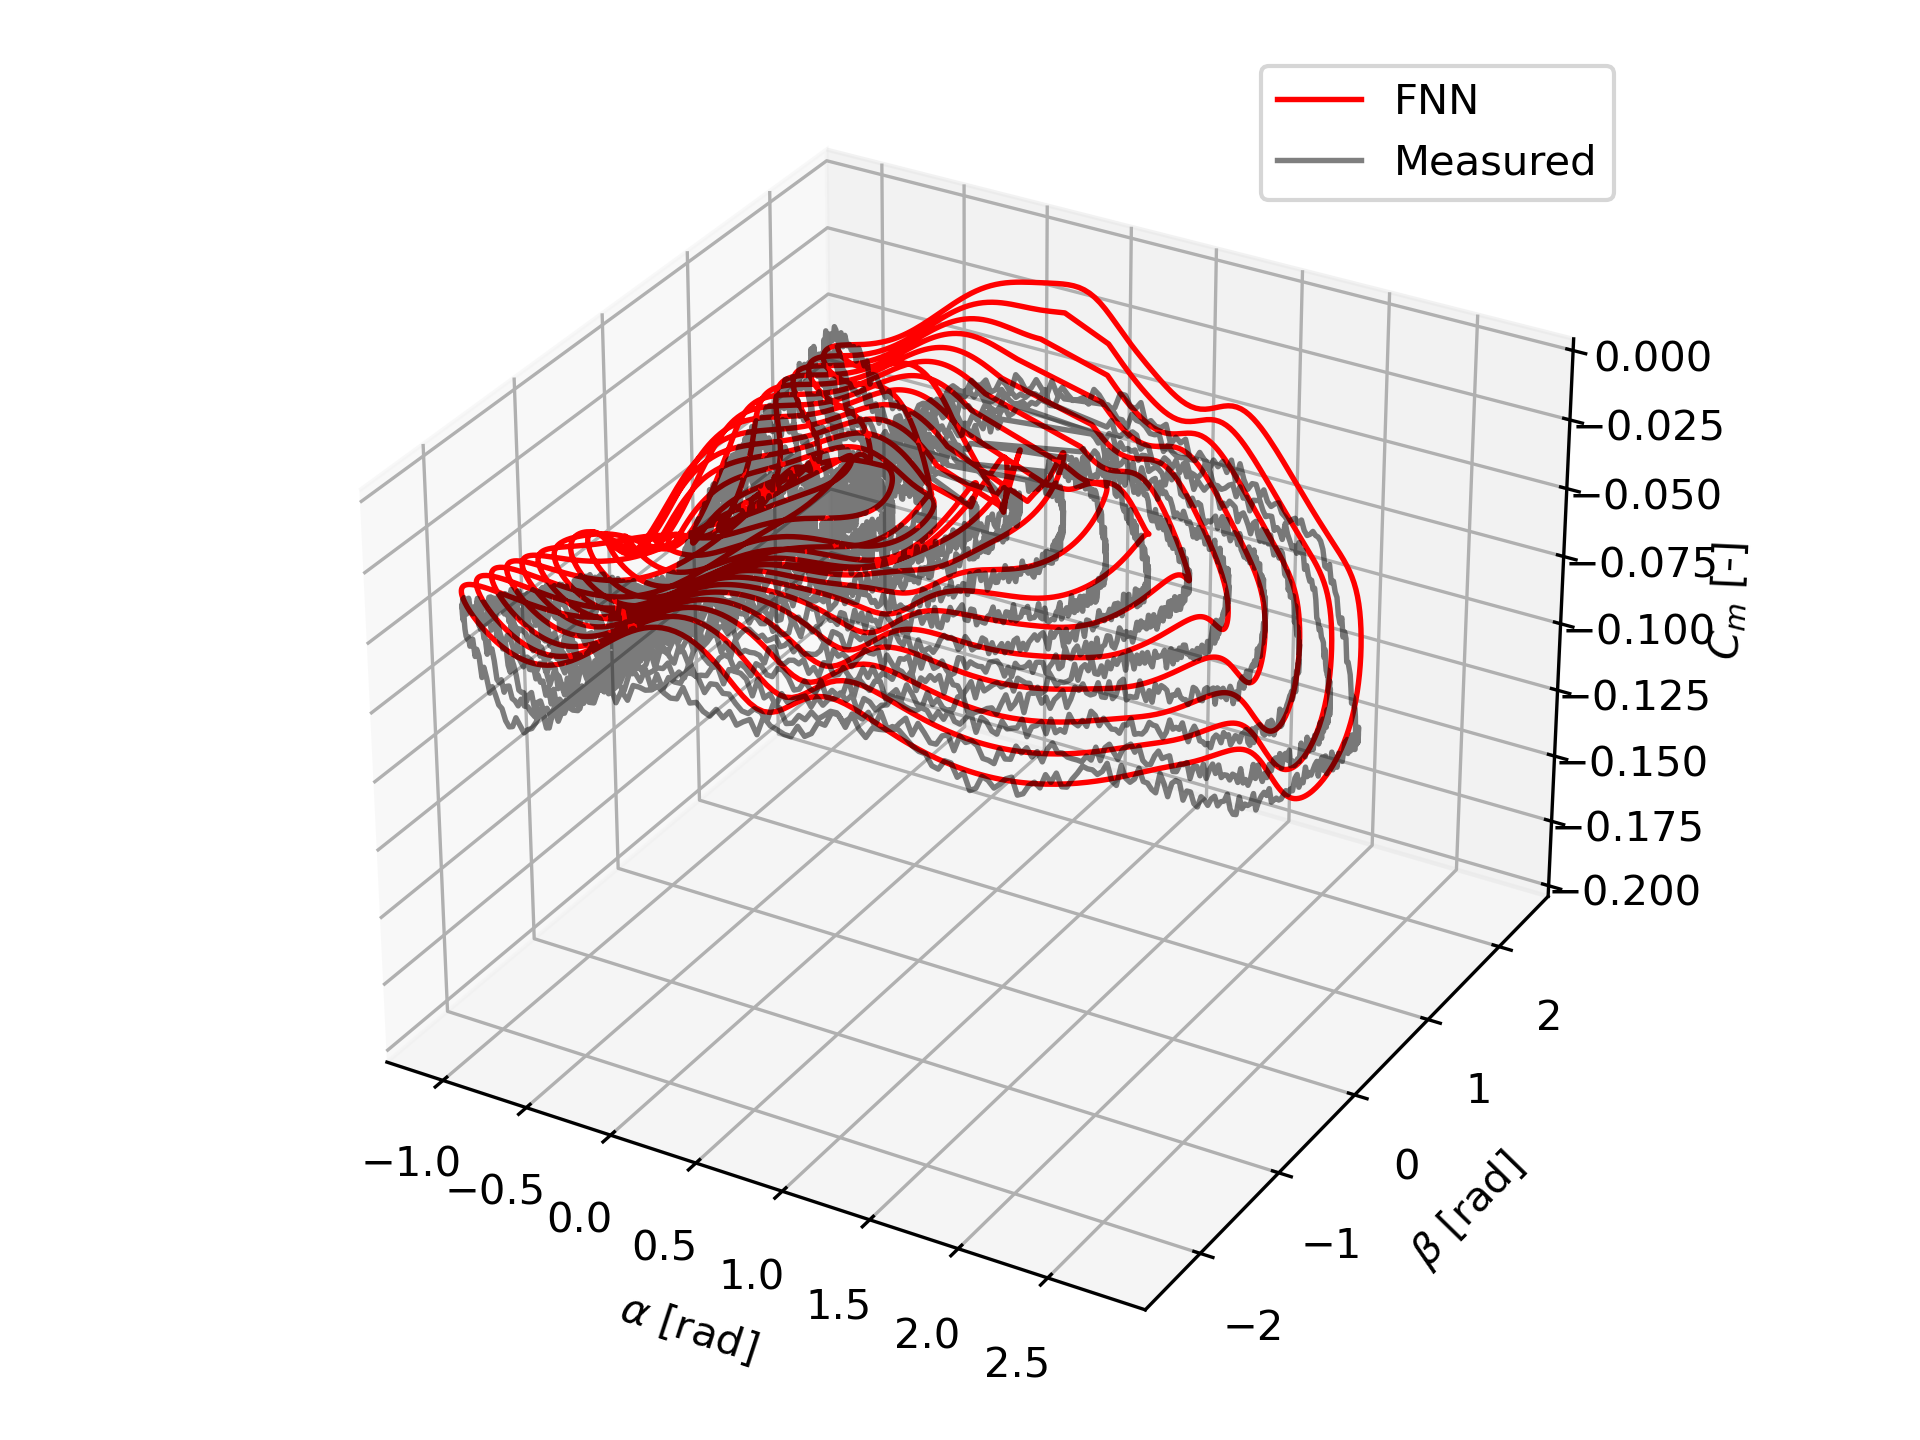
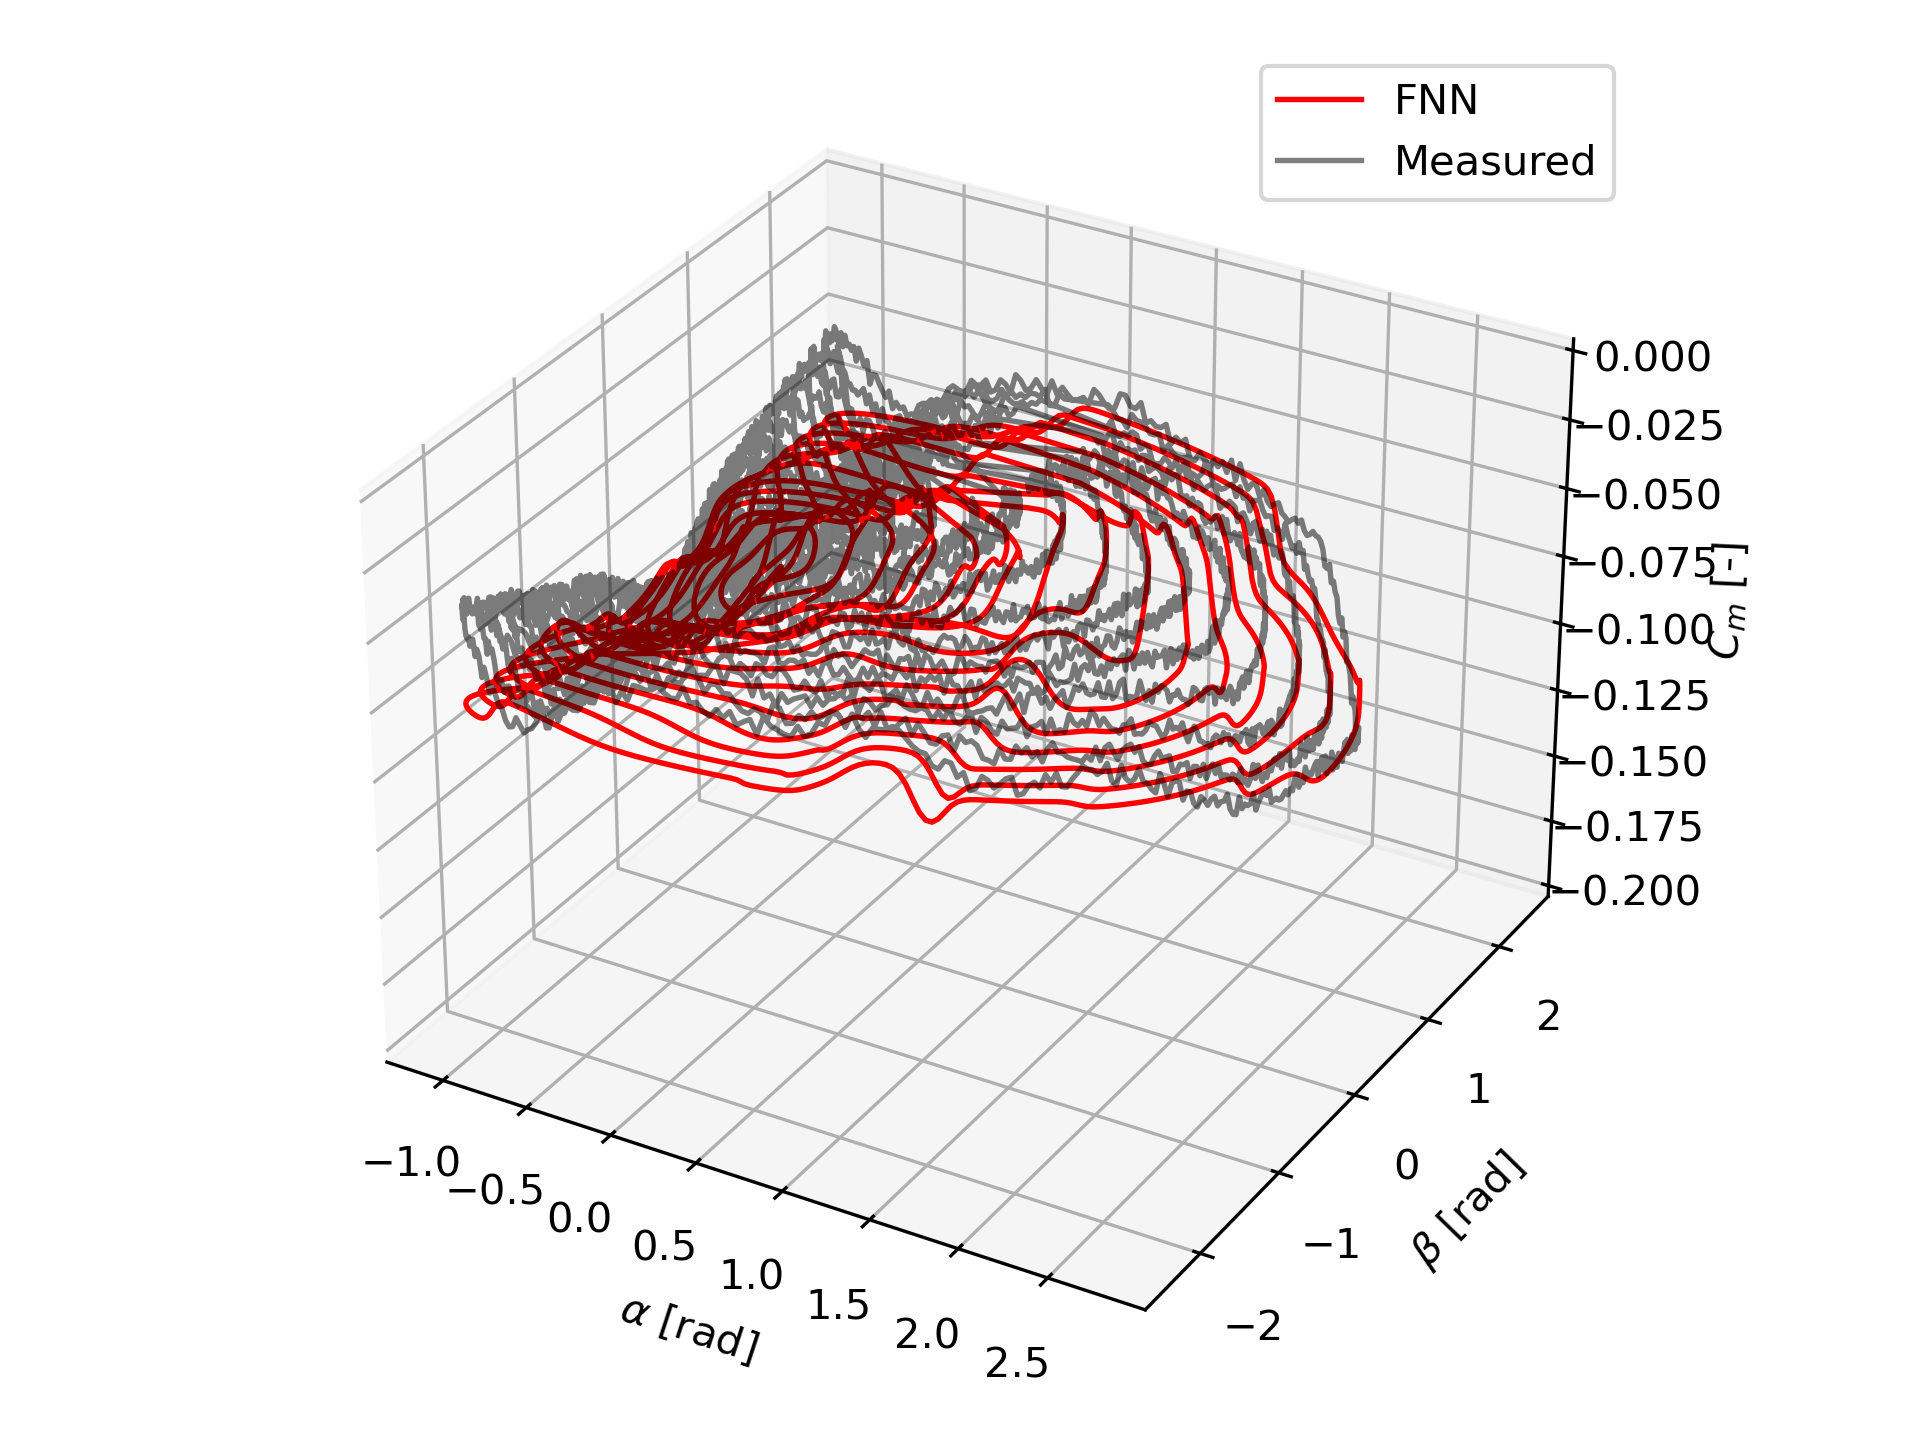
added part 2 RBF nets

Changed region(s): [[0.2188, 0.1875, 0.7188, 0.5625]]

diff --git a/rbf.py b/rbf.py
@@ -1,42 +1,205 @@
-import numpy as np
-import matplotlib.pyplot as plt
 import torch
+import torch.nn as nn
+import numpy as np
+from sklearn.model_selection import train_test_split
+from sklearn.preprocessing import StandardScaler
+from read_data import treat_data
+import matplotlib.pyplot as plt
+from sklearn.cluster import KMeans
+from scipy.spatial import Delaunay
+
+torch.random.manual_seed(1)
 
 
-class RBFNet:
-    def __init__(self, input_size, hidden_dim, output_size, R_input, epochs, training, mus, goal, min_grad, activation):
-        self.input_size = input_size
-        self.hidden_dim = hidden_dim
-        self.output_size = output_size
+class Linear(nn.Module):
+    def __init__(self, in_features, out_features):
+        super(Linear, self).__init__()
+        self.weight = nn.Parameter(torch.randn(in_features, out_features))
 
-        self.N_weights = input_size * hidden_dim + hidden_dim * output_size
-        self.weights1 = torch.randn(input_size, hidden_dim)
-        self.weights_2 = torch.randn(output_size, hidden_dim)
-
-        self.get_centers()
-        self.R_input = R_input
-
-        self.training = training
-        self.epochs = epochs
-        self.mu = mus[0]
-        self.mu_inc = mus[1]
-        self.mu_dec = mus[2]
-        self.mu_max = mus[2]
-        self.goal = goal
-        self.min_grad = min_grad
-        self.activation = activation
-
-        self.results = []
-
-    def get_centers(self):
-        self.centers = None
-
-    def train(self, X, Y):
-        pass
+    def forward(self, x):
+        return torch.matmul(x, self.weight)
 
 
+class RBFLayer(nn.Module):
+    def __init__(self, in_features, out_features, centers, labels):
+        super(RBFLayer, self).__init__()
+        self.weight = nn.Parameter(torch.randn(in_features, out_features))
+        self.centers = centers
+        self.labels = labels
+    def forward(self, x):
+        c = torch.tensor(self.centers, dtype=torch.float32)
+        X = torch.zeros(x.shape[0], c.shape[0], x.shape[1])
+        for i in range(x.shape[1]):
+            xx = x[:, i].reshape(-1, 1)
+            cc = c[:, i].reshape(-1, 1).t()
+            X[:, :, i] = (xx - cc).pow(2)
+        self.R = X
+        y = self.weight[0, :]**2 * X[:, :, 0] + self.weight[1, :]**2 * X[:, :, 1] + self.weight[2, :]**2 * X[:, :, 2]
+        return y
+
+class RBFActivation(nn.Module):
+    def __init__(self):
+        super(RBFActivation, self).__init__()
+
+    def forward(self, x, a=1.):
+        return a * torch.exp(-x)
 
 
+class RBFNet(nn.Module):
+    def __init__(self, in_features, hidden_dim, out_features, centers):
+        super(RBFNet, self).__init__()
+        self.layer1 = RBFLayer(in_features, hidden_dim, *centers)
+        self.layer2 = Linear(hidden_dim, out_features)
+        self.activation = RBFActivation()
 
-in_features, hidden_dim, out_featurs = 3, 10, 1
-R_input = 1
+    def forward(self, x):
+        x = self.activation(self.layer1(x))
+        x = self.layer2(x)
+        return x
+
+    @staticmethod
+    def get_centers(x, hidden_dim):
+        x = x.detach().numpy()
+        kmeans = KMeans(n_clusters=hidden_dim, random_state=0).fit(x)
+        centers = kmeans.cluster_centers_
+        labels = kmeans.labels_
+        return centers, labels
+
+
+def train_lin_regress(X, Y, hidden_dim):
+    X_train, X_val, y_train, y_val = train_test_split(X, Y, test_size=0.2, random_state=0)
+
+    scaler = StandardScaler()
+    X_train = scaler.fit_transform(X_train)
+    X_val = scaler.transform(X_val)
+
+    X_train_tensor = torch.tensor(X_train, dtype=torch.float32, requires_grad=True)
+    y_train_tensor = torch.tensor(y_train, dtype=torch.float32).reshape(-1, 1)
+    X_val_tensor = torch.tensor(X_val, dtype=torch.float32, requires_grad=True)
+    y_val_tensor = torch.tensor(y_val, dtype=torch.float32).reshape(-1, 1)
+
+    centers_train = RBFNet.get_centers(X_train_tensor, hidden_dim)
+    model = RBFNet(3, hidden_dim, 1, centers_train)
+
+    params = list(model.parameters())
+    updates = [params[0], torch.linalg.pinv(model.activation(model.layer1(X_train_tensor))) @ y_train_tensor]
+
+    for idx, p in enumerate(model.parameters()):
+        p.data = updates[idx]
+
+    test_data = scaler.transform(X)
+    test_data_tensor = torch.tensor(test_data, dtype=torch.float32)
+
+    model.eval()
+    with torch.no_grad():
+        predictions = model(test_data_tensor)
+
+    return predictions, test_data
+
+def train_lm(X, Y, num_epochs, mu, hidden_dim):
+    X_train, X_val, y_train, y_val = train_test_split(X, Y, test_size=0.2, random_state=42)
+
+    scaler = StandardScaler()
+    X_train = scaler.fit_transform(X_train)
+    X_val = scaler.transform(X_val)
+
+    X_train_tensor = torch.tensor(X_train, dtype=torch.float32, requires_grad=True)
+    y_train_tensor = torch.tensor(y_train, dtype=torch.float32).reshape(-1, 1)
+    X_val_tensor = torch.tensor(X_val, dtype=torch.float32, requires_grad=True)
+    y_val_tensor = torch.tensor(y_val, dtype=torch.float32).reshape(-1, 1)
+
+    centers_train = RBFNet.get_centers(X_train_tensor, hidden_dim)
+    model = RBFNet(3, hidden_dim, 1, centers_train)
+    criterion = nn.MSELoss()
+
+    def jacbobian():
+        W1, W2 = list(model.parameters())
+        h = model.activation(model.layer1(X_train_tensor))
+        y = model(X_train_tensor)
+
+        dedw2 = -1 * (y_train_tensor - y) * h
+
+        dedw1a = -1 * (y_train_tensor - y) @ W2.T * (-h) * 2 * W1[0, :] * model.layer1.R[:, :, 0]
+        dedw1b = -1 * (y_train_tensor - y) @ W2.T * (-h) * 2 * W1[1, :] * model.layer1.R[:, :, 1]
+        dedw1V = -1 * (y_train_tensor - y) @ W2.T * (-h) * 2 * W1[2, :] * model.layer1.R[:, :, 2]
+
+        return torch.hstack([dedw1a, dedw1b, dedw1V]), dedw2
+
+    losses = []
+    for epoch in range(num_epochs):
+        model.zero_grad()
+        outputs = model(X_train_tensor)
+        loss = criterion(outputs, y_train_tensor)
+        losses.append(loss.item())
+
+        E = 0.5 * (y_train_tensor - outputs).pow(2)
+        Jacobian = jacbobian()
+        deltas = []
+        for idx, J in enumerate(Jacobian):
+            deltaW = torch.linalg.inv(J.t() @ J + mu * torch.eye(J.shape[1])) @ J.t() @ E
+            deltaW = deltaW
+            deltas.append(deltaW)
+
+        for i, p in enumerate(model.parameters()):
+            p.data -= deltas[i].reshape(p.shape)
+
+        # Validation
+        # model.eval()
+        # with torch.no_grad():
+        #     val_outputs = model(X_val_tensor)
+        #     val_loss = criterion(val_outputs, y_val_tensor)
+
+        # Print progress
+        if (epoch + 1) % 100 == 0:
+            print(f'Epoch [{epoch + 1}/{num_epochs}], Train Loss: {loss.item():.6f}, Val Loss: ')
+
+    test_data = scaler.transform(X)
+    test_data_tensor = torch.tensor(test_data, dtype=torch.float32)
+
+    model.eval()
+    with torch.no_grad():
+        predictions = model(test_data_tensor)
+
+    # plt.plot(test_data[:, 0], test_data[:, 1])
+    # C, L = model.layer1.centers, model.layer1.labels
+    # print(C.shape)
+    # Call = model.layer1.reformat_centers(test_data_tensor, C).detach().numpy()
+    # print(Call.shape)
+    # plt.scatter(C[:, 0], C[:, 1], c='r')
+    # plt.scatter(test_data[:, 0]-Call[:, 0], test_data[:, 1]-Call[:, 1])
+    # plt.show()
+
+    return predictions, losses, test_data
+
+
+ols_data = np.loadtxt('data/output.csv', delimiter=',')  # load full reconstructed data
+Y, X = ols_data[:, 0], ols_data[:, 1:]
+Y, X = treat_data((Y, X))
+
+# predictions, test_data = train_lin_regress(X, Y, 50)
+#
+# plt.figure(figsize=(12, 3))
+# plt.plot(Y, label='True')
+# plt.plot(predictions, label='Predictions')
+# plt.legend()
+# plt.show()
+
+predictions, losses, test_data = train_lm(X, Y, 2000, 0.002, 15)
+
+tri = Delaunay(test_data[:, :2])
+fig = plt.figure()
+ax = fig.add_subplot(111, projection='3d')
+ax.plot(test_data[:, 0], test_data[:, 1], Y, c='r', lw=1.3)
+ax.plot(test_data[:, 0], test_data[:, 1], predictions.reshape(-1), c='b', lw=1.3)
+# ax.plot_trisurf(test_data[:, 0], test_data[:, 1], predictions.reshape(-1), triangles=tri.simplices)
+ax.set_zlim(-0.12, 0)
+plt.show()
+
+plt.semilogy(losses)
+plt.show()
+
+plt.figure(figsize=(12, 3))
+plt.plot(Y, label='True')
+plt.plot(predictions, label='Predictions')
+plt.legend()
+plt.show()

diff --git a/fnn.py b/fnn.py
@@ -8,11 +8,22 @@ from read_data import treat_data
 import matplotlib.pyplot as plt
 
 
+
+class Linear(nn.Module):
+    def __init__(self, in_features, out_features):
+        super(Linear, self).__init__()
+        self.weight = nn.Parameter(torch.randn(out_features, in_features))
+        self.bias = nn.Parameter(torch.randn(out_features))
+
+    def forward(self, x):
+        return torch.matmul(x, self.weight.t()) + self.bias
+
+
 class FeedForwardNet(nn.Module):
-    def __init__(self, in_features, hidden_dim, out_features, ):
+    def __init__(self, in_features, hidden_dim, out_features):
         super(FeedForwardNet, self).__init__()
-        self.layer1 = nn.Linear(in_features, hidden_dim)
-        self.layer2 = nn.Linear(hidden_dim, out_features)
+        self.layer1 = Linear(in_features, hidden_dim)
+        self.layer2 = Linear(hidden_dim, out_features)
         self.activation = torch.tanh
 
     def forward(self, x):
@@ -60,6 +71,7 @@ def train(X, Y, num_epochs, lr, hidden_dim):
 
         # Print progress
         if (epoch + 1) % 100 == 0:
+            print(model.layer1.bias.detach().numpy())
             print(f'Epoch [{epoch + 1}/{num_epochs}], Train Loss: {loss.item():.6f}, Val Loss: {val_loss.item():.6f}')
 
     test_data = scaler.transform(X)
@@ -109,7 +121,6 @@ def train_lm(X, Y, num_epochs, mu, hidden_dim):
             model.zero_grad()
             outputs = model(X_train_tensor)
             loss = criterion(outputs, y_train_tensor)
-            # loss.backward()
             losses.append(loss.item())
 
             E = 0.5 * (y_train_tensor - outputs).pow(2)
@@ -123,17 +134,10 @@ def train_lm(X, Y, num_epochs, mu, hidden_dim):
             for i, p in enumerate(model.parameters()):
                 p.data -= deltas[i].reshape(p.shape)
 
-            val_loss = torch.tensor([1])
-            # if (iteration + 1) % 10 == 0:
-            #     model.eval()
-            #     with torch.no_grad():
-            #         val_outputs = model(X_val_tensor)
-            #         val_loss = criterion(val_outputs, y_val_tensor)
-            #         if val_loss > val_loss_prev:
-            #             mu *= 1.05
-            #         elif val_loss < val_loss_prev:
-            #             mu /= 1.05
-            #         val_loss_prev = val_loss
+            model.eval()
+            with torch.no_grad():
+                val_outputs = model(X_val_tensor)
+                val_loss = criterion(val_outputs, y_val_tensor)
 
             if (iteration + 1) % 100 == 0:
                 print(f'Epoch [{iteration + 1}/{num_epochs}], Train Loss: {loss.item():.6f}, Val Loss: {val_loss.item():.6f}, mu: {mu:.6f}')
@@ -193,7 +197,7 @@ ols_data = np.loadtxt('data/output.csv', delimiter=',')  # load full reconstruct
 Y, X = ols_data[:, 0], ols_data[:, 1:]
 Y, X = treat_data((Y, X))
 
-predictions, losses,  test_data = train_lm(X, Y, 10000, 0.01, 15)
+predictions, losses,  test_data = train(X, Y, 10000, 0.01, 15)
 
 plt.figure(figsize=(12, 3))
 plt.plot(Y, label='True')
